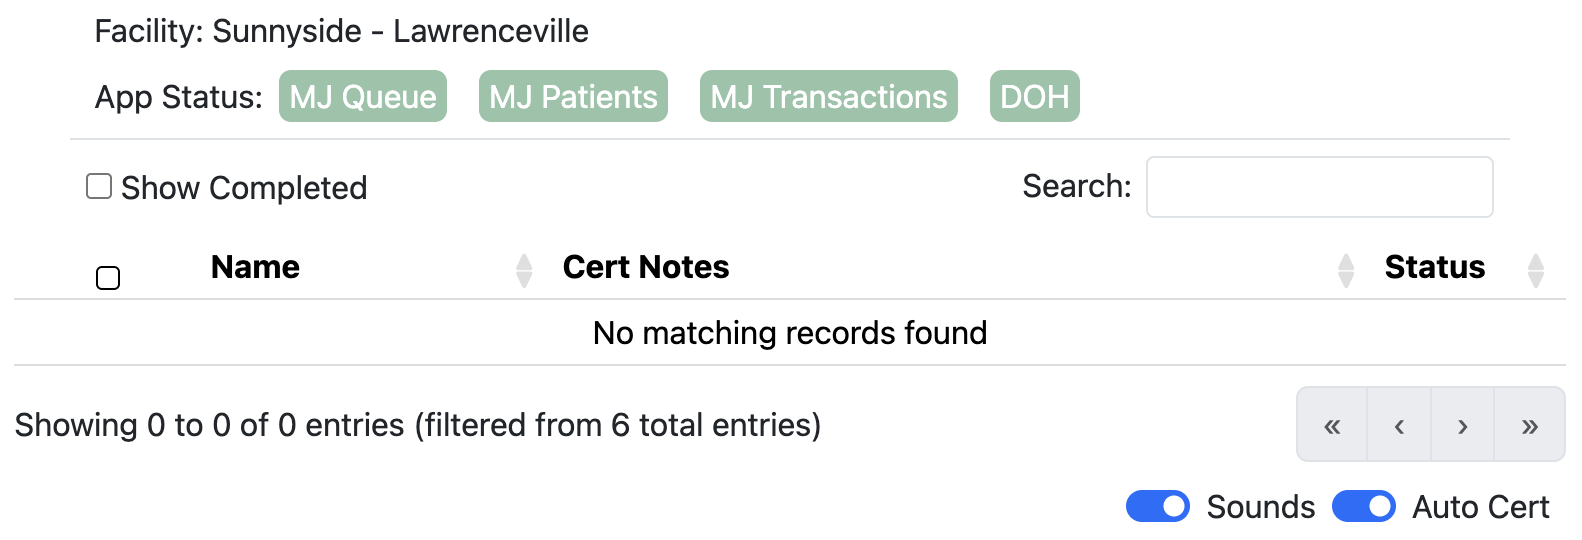
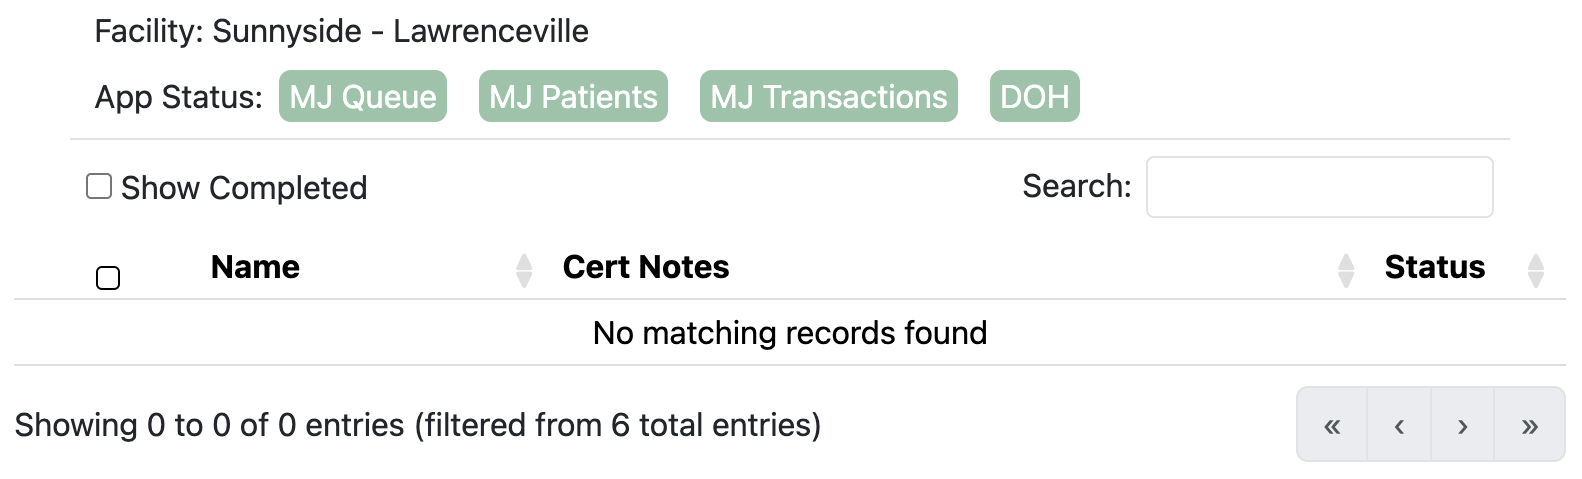
updated onboarding video link

diff --git a/src/onboarding.html b/src/onboarding.html
@@ -54,8 +54,7 @@
         <div class="row g-5">
             <h2 class="text-body-emphasis">Video Tutorial</h2>
             <div class="row g-3">
-                <iframe width="560" height="315" src="https://www.youtube.com/embed/Gc9-S_yorzg?si=oPbUpMogGL6cizXC" title="YouTube video player" frameborder="0" allow="accelerometer; autoplay; clipboard-write; encrypted-media; gyroscope; picture-in-picture; web-share" referrerpolicy="strict-origin-when-cross-origin" allowfullscreen></iframe>            </div>
-            <div class="row g-4">
+                <iframe width="560" height="315" src="https://www.youtube.com/embed/NNbuGcibMCY?si=tsEubVrjxxvGMELX" title="YouTube video player" frameborder="0" allow="accelerometer; autoplay; clipboard-write; encrypted-media; gyroscope; picture-in-picture; web-share" referrerpolicy="strict-origin-when-cross-origin" allowfullscreen></iframe>            <div class="row g-4">
                 <div class="container">
                     Most of the actions you will take with this extension happen from the popup window accessed by
                     clicking on the extension icon.
@@ -127,16 +126,9 @@
                                 new
                                 patient checks in and has their order started. It will play a warning sound if one of
                                 the MJ
-                                or DOH pages is disconnected. In auto-cert mode, patient sounds are only played if there
-                                is
-                                an issue with the certificate that needs manual review.
+                                or DOH pages is disconnected.
                             </li>
-                            <li>Auto Cert: This mode automatically annotates the certificate if the patient is not a
-                                first
-                                visit, has no limitations, and has a valid indication. YOU MUST OBTAIN APPROVAL FROM
-                                YOUR
-                                ORGANIZATION AND THE PA DOH TO USE THIS FEATURE.
-                            </li>
+
                         </ul>
                     </ul>
                 </div>

diff --git a/src/options.html b/src/options.html
@@ -1,24 +1,9 @@
 <!DOCTYPE html>
 <html>
 <head>
-  <title>My Test Extension Options</title>
+  <title>PACerts Options</title>
 </head>
 <body>
-<select id="color">
-  <option value="red">red</option>
-  <option value="green">green</option>
-  <option value="blue">blue</option>
-  <option value="yellow">yellow</option>
-</select>
 
-<label>
-  <input type="checkbox" id="like" />
-  I like colors.
-</label>
-
-<div id="status"></div>
-<button id="save">Save</button>
-
-<script src="options.js"></script>
-</body>
+</body>>
 </html>
